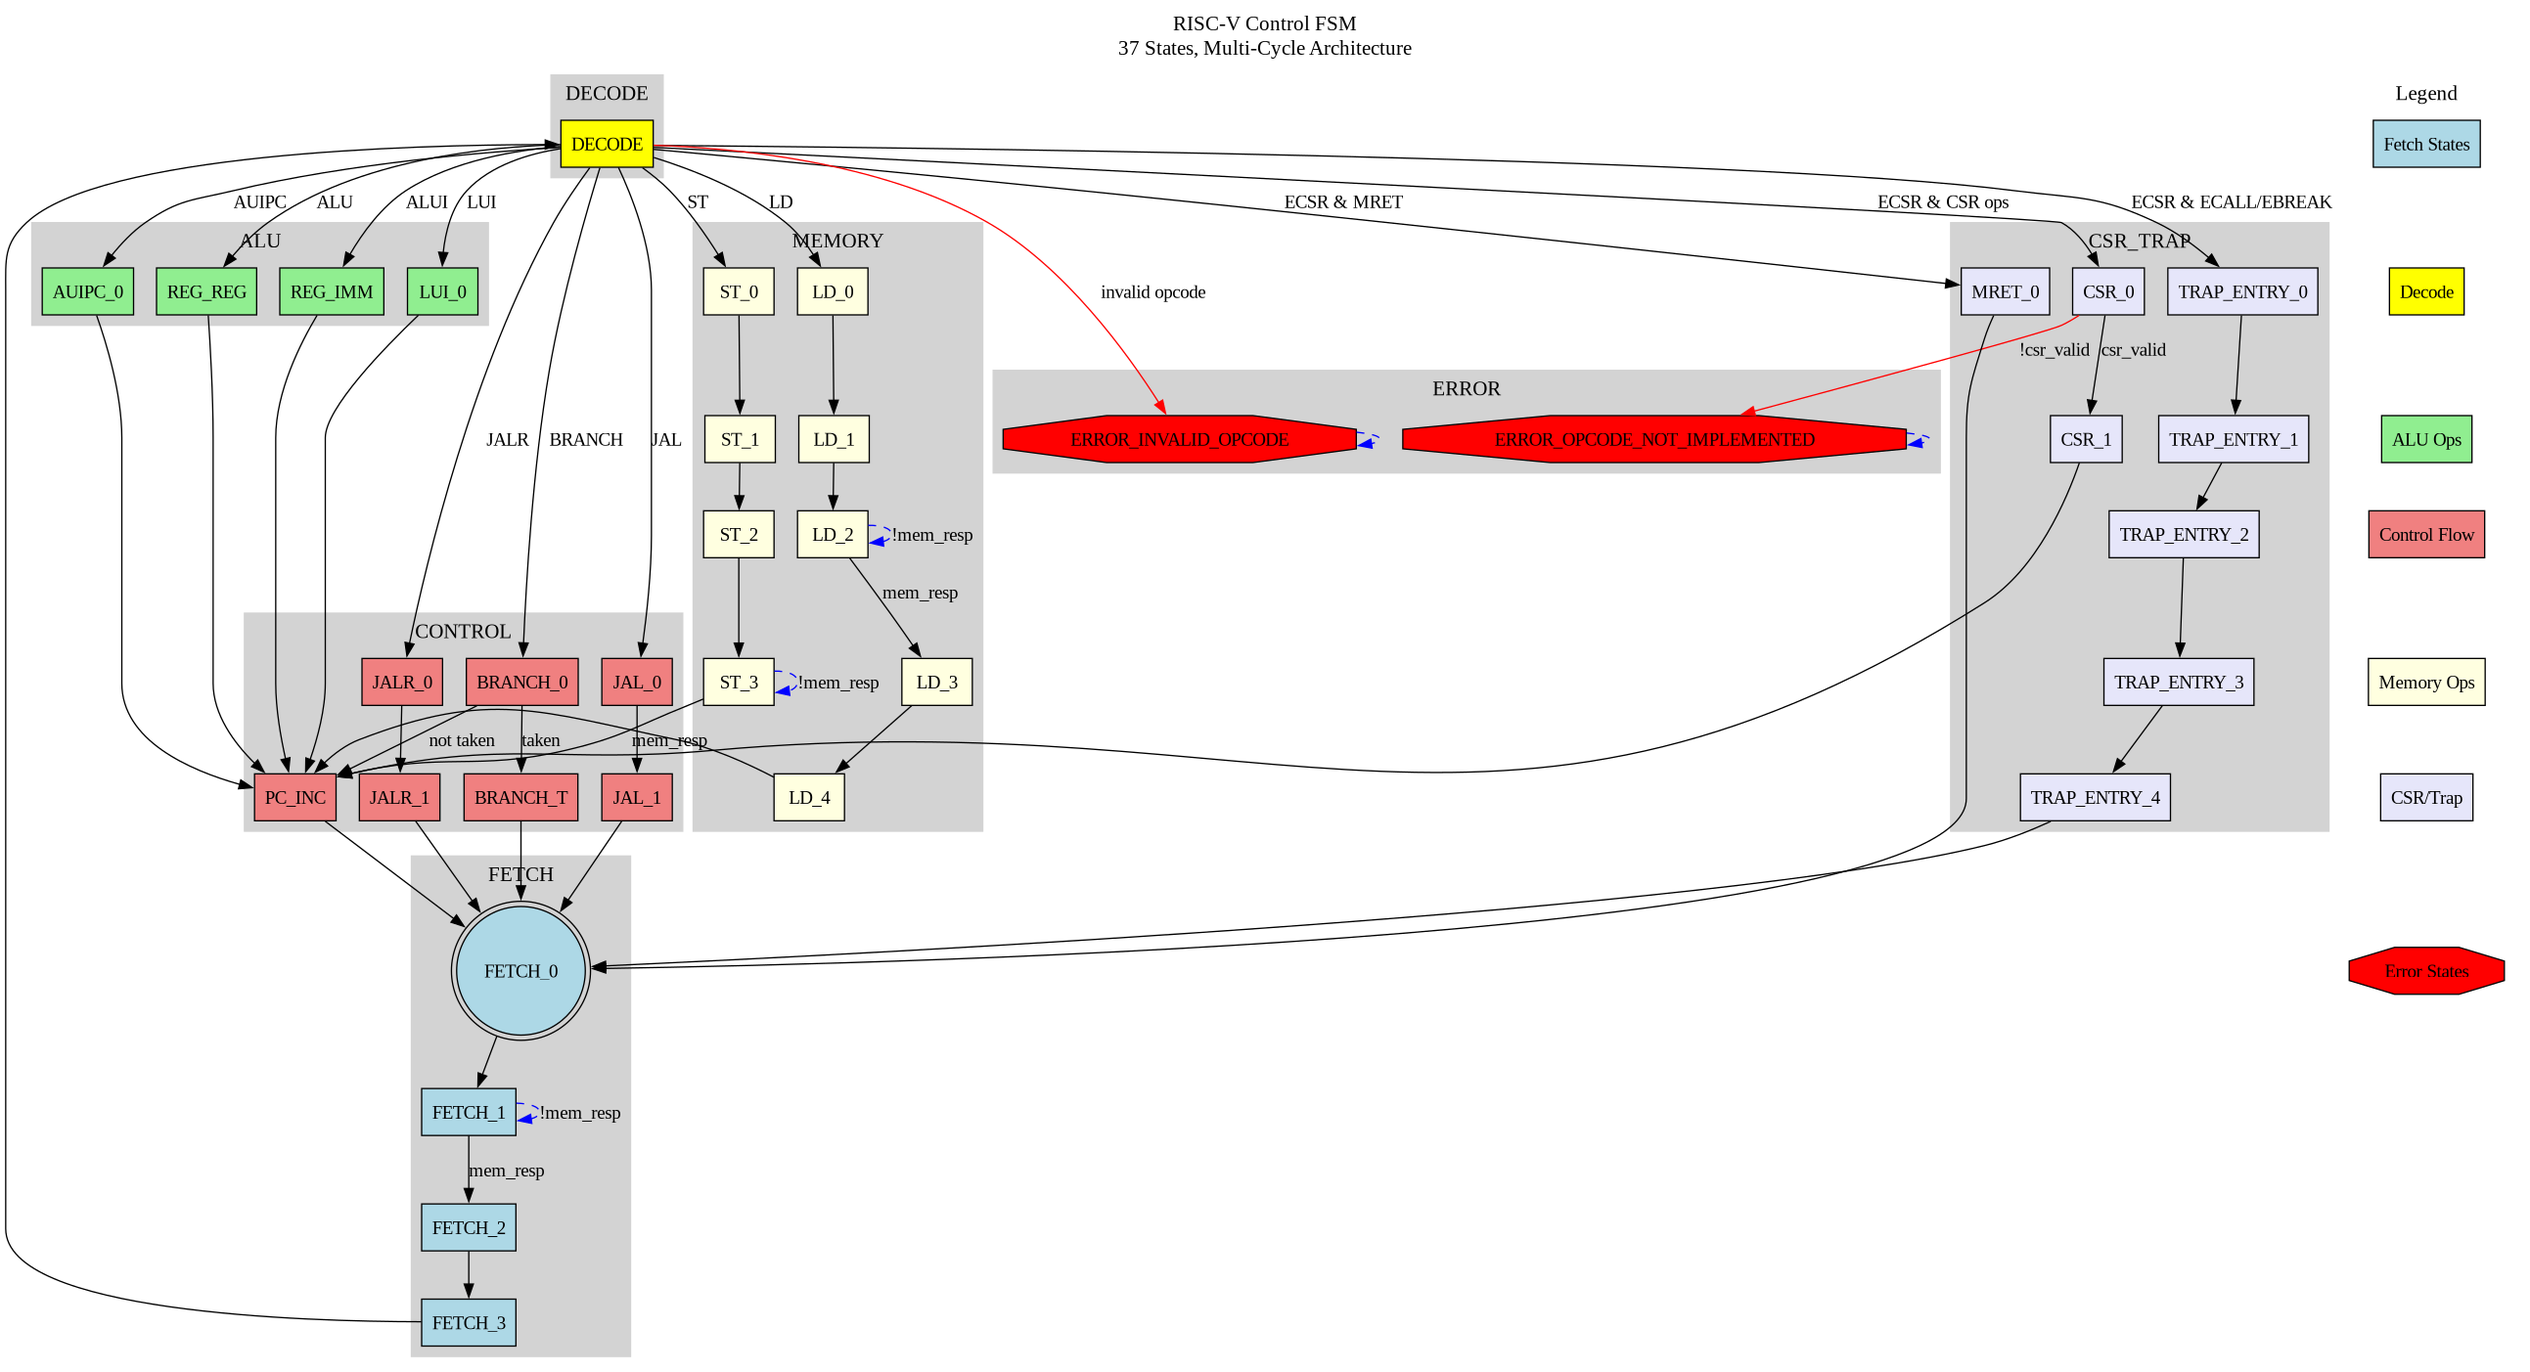
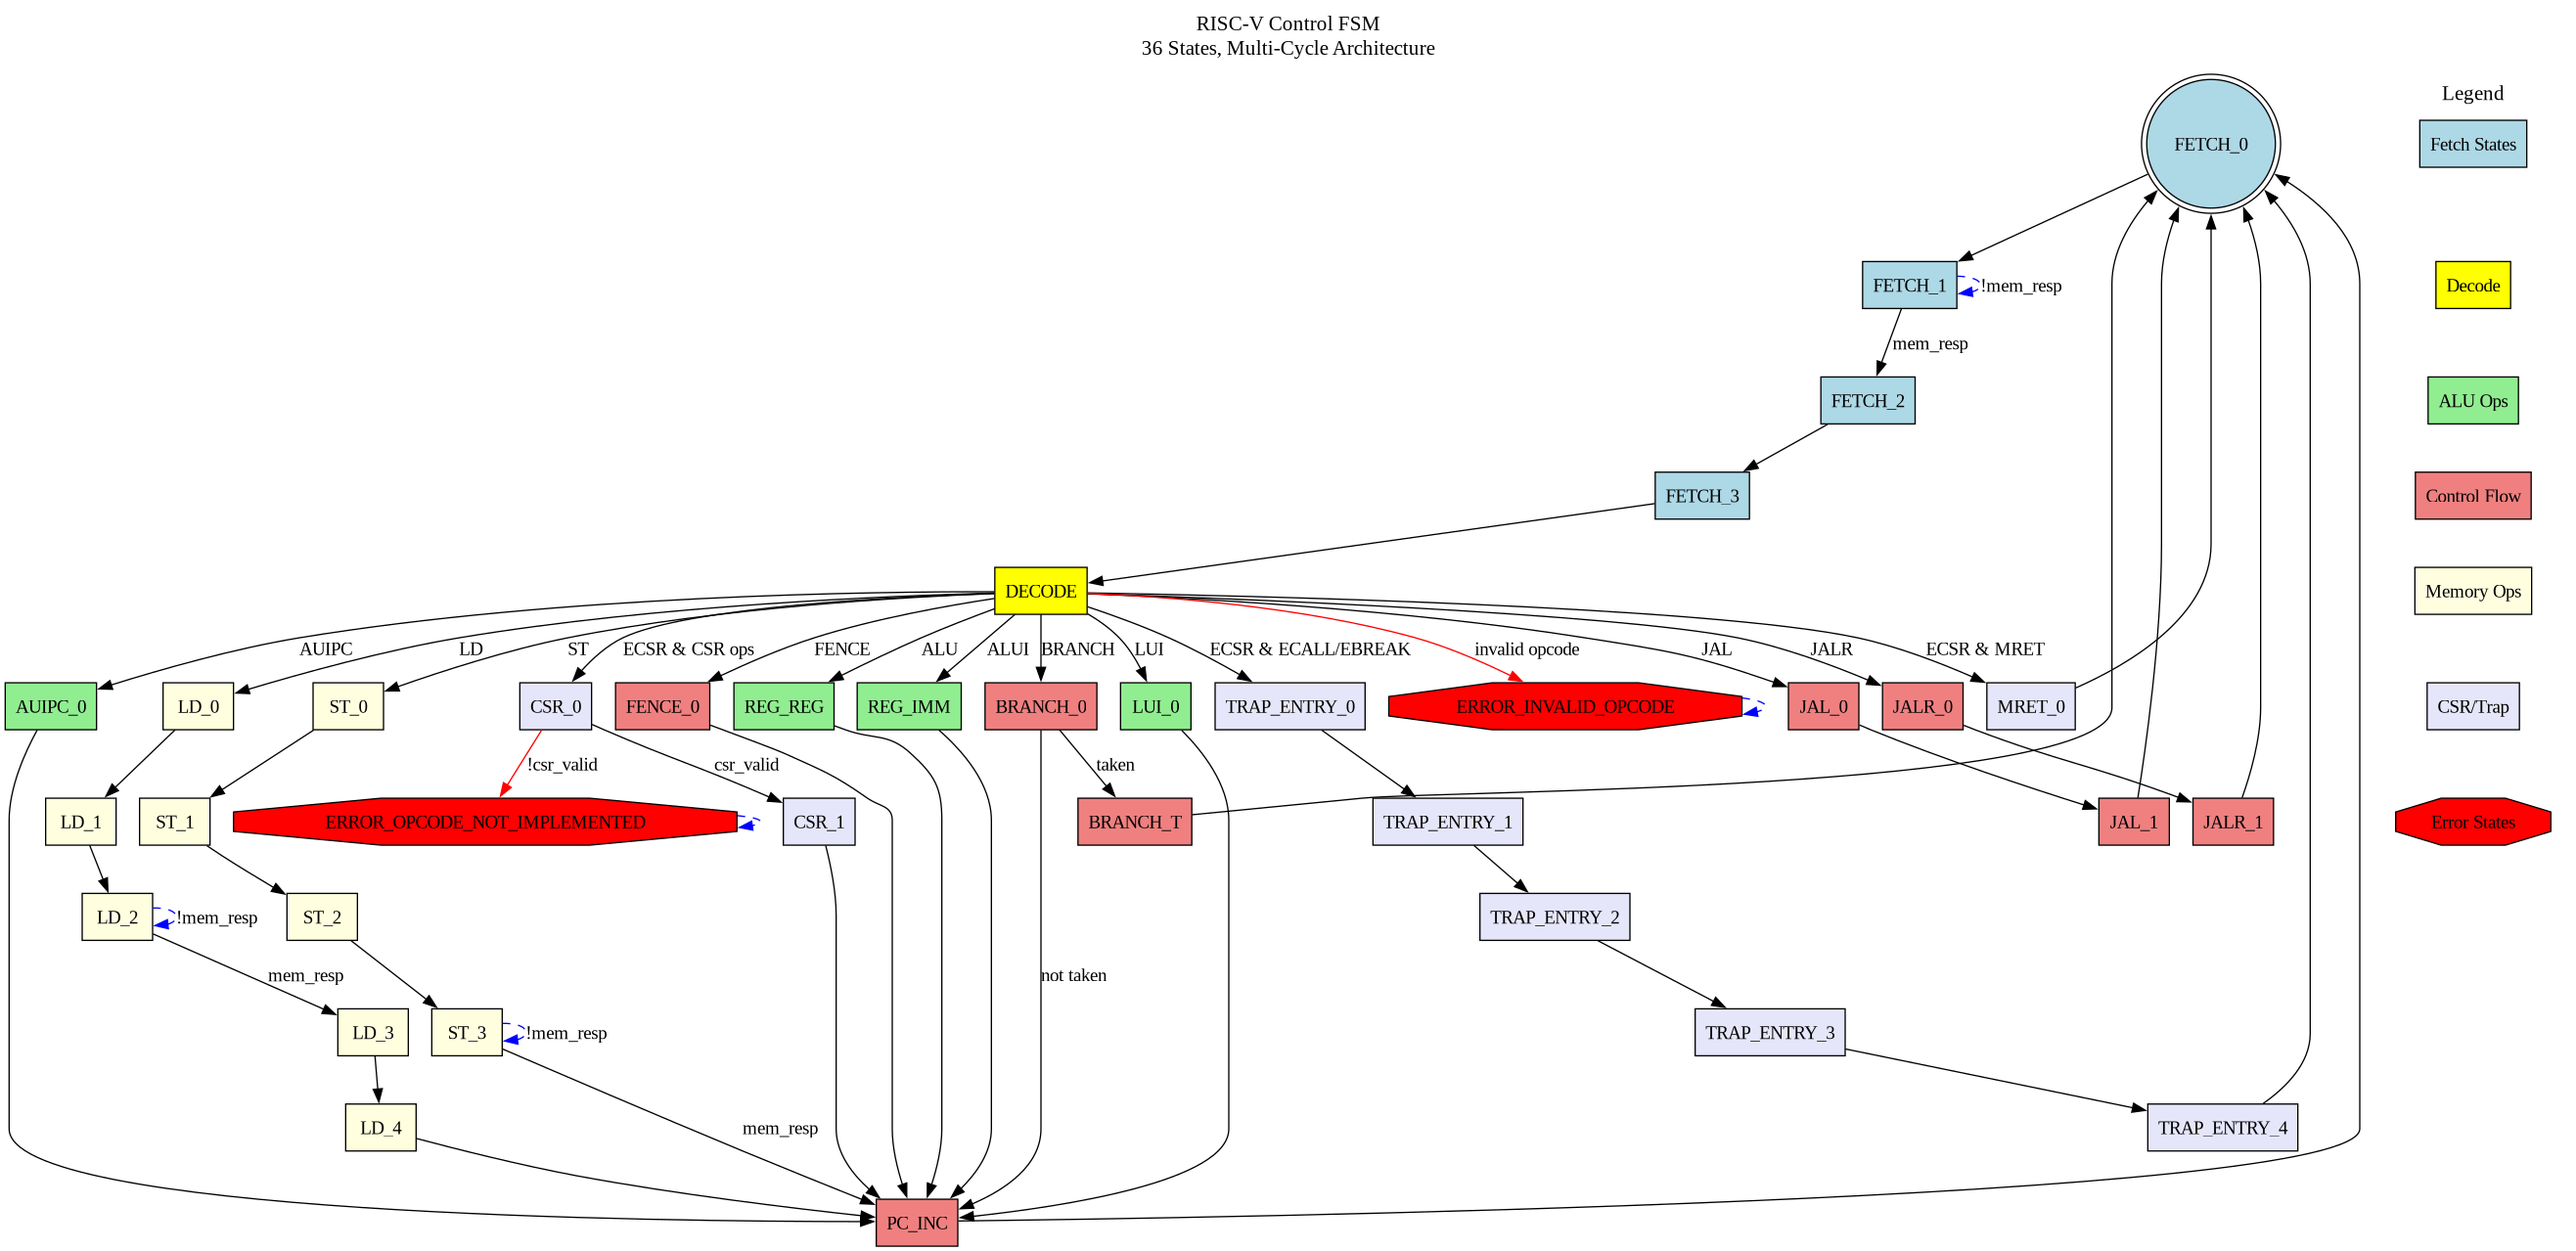
Docs update (#16)

diff --git a/scripts/analyze_fsm.py b/scripts/analyze_fsm.py
@@ -42,7 +42,7 @@ class FSMAnalyzer:
             'alu': ('lightgreen', ['REG_REG', 'REG_IMM', 'LUI_0', 'AUIPC_0']),
             'control': ('lightcoral', [
                 'BRANCH_0', 'BRANCH_T', 'PC_INC', 'JAL_0', 'JAL_1', 'JALR_0',
-                'JALR_1'
+                'JALR_1', 'FENCE_0'
             ]),
             'memory': ('lightyellow', [
                 'LD_0', 'LD_1', 'LD_2', 'LD_3', 'LD_4', 'ST_0', 'ST_1', 'ST_2',
@@ -80,7 +80,7 @@ class FSMAnalyzer:
             'LUI_0', 'AUIPC_0', 'JALR_0', 'JALR_1', 'LD_0', 'LD_1', 'LD_2',
             'LD_3', 'LD_4', 'ST_0', 'ST_1', 'ST_2', 'ST_3', 'CSR_0', 'CSR_1',
             'TRAP_ENTRY_0', 'TRAP_ENTRY_1', 'TRAP_ENTRY_2', 'TRAP_ENTRY_3',
-            'TRAP_ENTRY_4', 'MRET_0', 'ERROR_INVALID_OPCODE',
+            'TRAP_ENTRY_4', 'MRET_0', 'FENCE_0', 'ERROR_INVALID_OPCODE',
             'ERROR_OPCODE_NOT_IMPLEMENTED'
         ]
 
@@ -163,6 +163,10 @@ class FSMAnalyzer:
             # MRET
             ('MRET_0', 'FETCH_0', ''),
 
+            # FENCE (architectural NOP)
+            ('DECODE', 'FENCE_0', 'FENCE'),
+            ('FENCE_0', 'PC_INC', ''),
+
             # Error states (halt)
             ('ERROR_INVALID_OPCODE', 'ERROR_INVALID_OPCODE', ''),
             ('ERROR_OPCODE_NOT_IMPLEMENTED', 'ERROR_OPCODE_NOT_IMPLEMENTED',
@@ -217,7 +221,7 @@ class FSMAnalyzer:
             # Title
             f.write('  labelloc="t";\n')
             f.write(
-                '  label="RISC-V Control FSM\\n37 States, Multi-Cycle Architecture";\n'
+                '  label="RISC-V Control FSM\\n36 States, Multi-Cycle Architecture";\n'
             )
             f.write('  fontsize=16;\n')
             f.write('  \n')

diff --git a/synthesis/README.md b/synthesis/README.md
@@ -299,7 +299,7 @@ The synthesis script (`scripts/synth.tcl`) implements a 12-phase flow:
 2. `fsm_extract` - Extract FSM structure
 3. `fsm_opt` - Optimize FSM (reduce states, remove unreachable)
 4. `fsm_recode -encoding onehot` - **One-hot encoding**
-   - Creates 40 flip-flops for 40-state FSM
+   - Creates 36 flip-flops for 36-state FSM
    - Simpler next-state logic vs binary encoding
    - Better for formal verification
 5. `fsm_map` - Convert FSM to logic gates
@@ -740,13 +740,13 @@ Yosys 0.49+ natively handles SystemVerilog features used in this design:
 **Configuration**: `fsm_recode -encoding onehot`
 
 **Trade-off**:
-- **More flip-flops**: 40 FFs for 40-state FSM (vs ~6 for binary)
+- **More flip-flops**: 36 FFs for 36-state FSM (vs ~6 for binary)
 - **Simpler logic**: One FF per state, simple next-state
 - **Better for formal**: Easier to prove properties
 - **Faster synthesis**: Less optimization needed
 
 **Alternative**: Binary encoding (`-encoding binary`)
-- Fewer FFs (~6 for 40 states)
+- Fewer FFs (~6 for 36 states)
 - More complex next-state logic
 - Harder formal verification
 

diff --git a/simulation/tests/module/README_alu.md b/simulation/tests/module/README_alu.md
@@ -82,17 +82,17 @@ Based on `datatypes.sv`:
 | Operation | Code | Description |
 |-----------|------|-------------|
 | ADD       | 0    | Addition |
-| SUB       | 1    | Subtraction |
-| SLL       | 2    | Shift Left Logical |
-| SLT       | 3    | Set Less Than (signed) |
-| AND       | 4    | Bitwise AND |
-| OR        | 5    | Bitwise OR |
-| XOR       | 6    | Bitwise XOR |
-| SRL       | 7    | Shift Right Logical |
-| SLTU      | 8    | Set Less Than Unsigned |
-| SRA       | 9    | Shift Right Arithmetic |
-| COPY_A    | 10   | Pass-through of operand A |
-| COPY_B    | 13   | Pass-through of operand B |
+| SLL       | 1    | Shift Left Logical |
+| SLT       | 2    | Set Less Than (signed) |
+| SLTU      | 3    | Set Less Than Unsigned |
+| XOR       | 4    | Bitwise XOR |
+| SRL       | 5    | Shift Right Logical |
+| OR        | 6    | Bitwise OR |
+| AND       | 7    | Bitwise AND |
+| SUB       | 8    | Subtraction |
+| PASS_RS1  | 9    | Pass-through of operand A |
+| PASS_RS2  | 10   | Pass-through of operand B |
+| SRA       | 13   | Shift Right Arithmetic |
 
 ## Running the Tests
 

diff --git a/README.md b/README.md
@@ -118,7 +118,7 @@ output [3:0]  mem_be       // Byte enables
 
 **Location**: `/rtl/control.sv`
 
-**FSM States** (47 states total):
+**FSM States** (36 states total):
 ```
 Instruction Fetch (4+ cycles):
   FETCH_0: MAR <- PC, initiate read
@@ -454,6 +454,9 @@ LOOP:
 - `test_prime_program`: Prime number test
 - `test_byte_load_simple_program`: Byte load verification
 - `test_halfword_program`: Halfword access verification
+- `test_fence_basic_program`: Basic FENCE instruction execution
+- `test_fence_i_program`: FENCE.I instruction execution
+- `test_fence_ordering_program`: Memory ordering verification
 
 **Boost.Test Integration:**
 ```cpp
